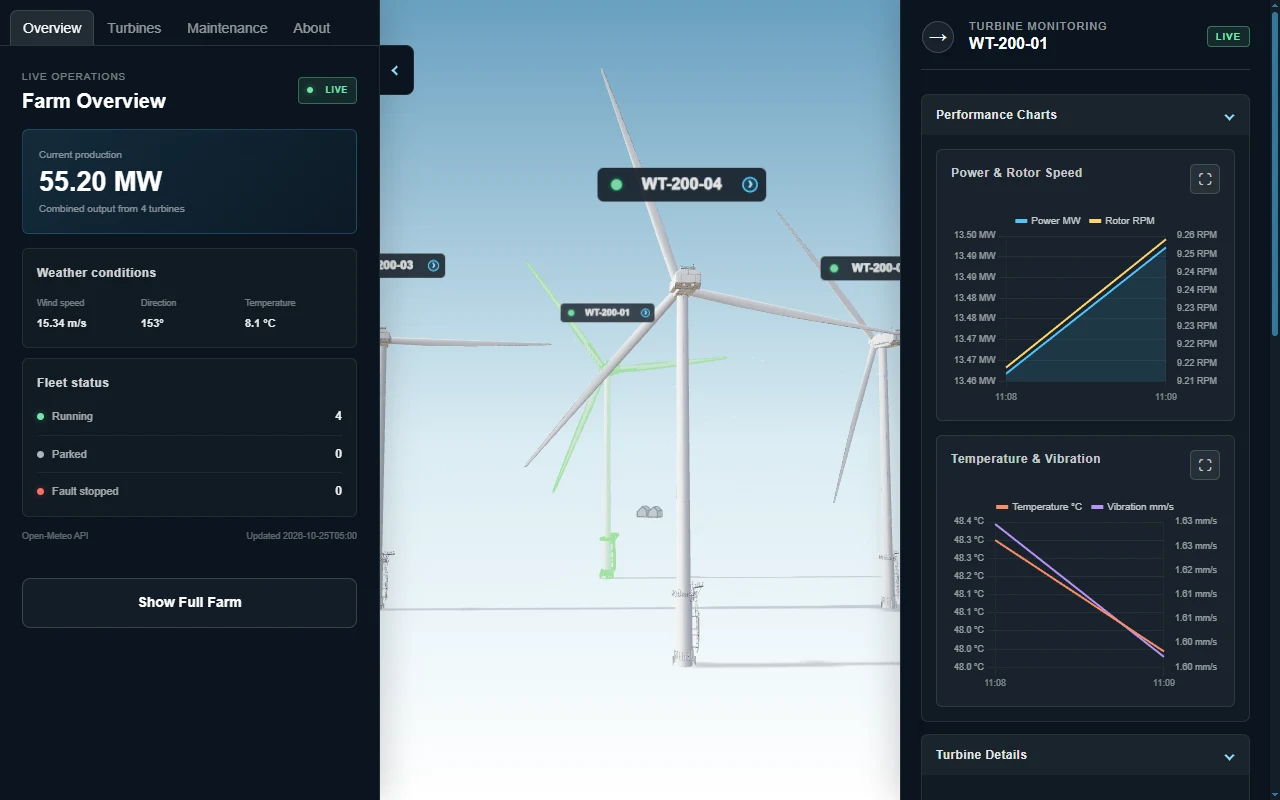
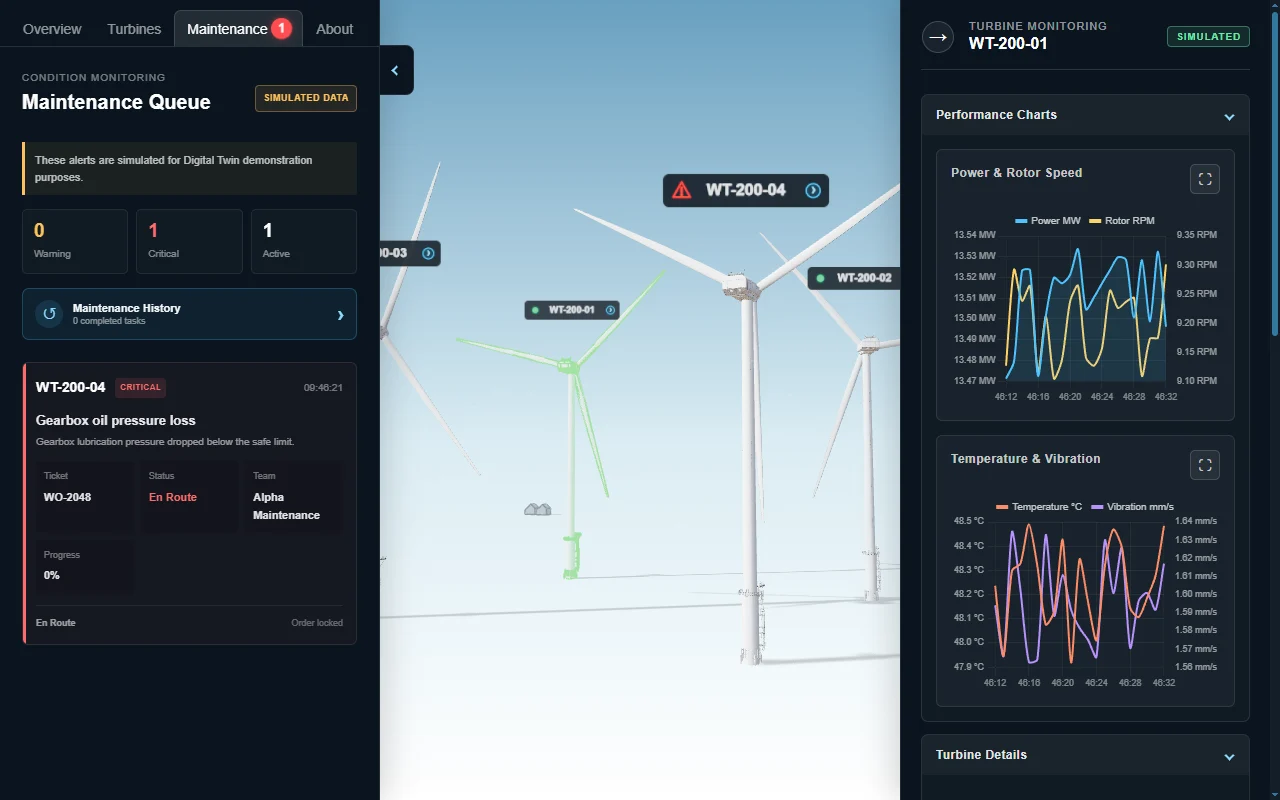
docs: present the published WindTwin release with fresh screenshots and qualified results

diff --git a/README.md b/README.md
@@ -42,7 +42,7 @@ Selecting a primary turbine connects its 3D identity to condition information, o
 
 ![Primary turbine selected with monitoring charts and condition panels](windtwin-monitoring-2026.webp)
 
-*Turbine values and chart samples are simulated. A monitoring-style LIVE label is not evidence of a connection to physical turbine sensors.*
+*Turbine values and chart samples are simulated and labelled accordingly; WindTwin is not connected to physical turbine sensors.*
 
 ## 3. Follow maintenance as a connected workflow
 
@@ -71,10 +71,10 @@ The responsive interface supports desktop and mobile layouts with touch navigati
 The latest viewer tools group branded image capture and supported fullscreen viewing in Overview. Export captures the 3D scene with Nourtin branding, rather than the HTML dashboard.
 
 <p align="center">
-  <img src="windtwin-mobile-overview-2026.png" width="300" alt="Current WindTwin Overview panel with camera and fullscreen icons in an emulated portrait mobile viewport">
+  <img src="windtwin-mobile-overview-2026.webp" width="300" alt="Current WindTwin Overview panel with camera and fullscreen icons in an emulated portrait mobile viewport">
 </p>
 
-*The mobile image shows the latest Overview tools in browser viewport emulation, not physical-phone performance validation. The other captures show the same-day library-update candidate before the final toolbar placement.*
+*These captures come from the published application on 25 October 2026. The portrait image uses browser viewport emulation; it is not physical-phone performance validation.*
 
 ## Performance and experience quality
 
@@ -86,7 +86,9 @@ One recorded local production-build comparison observed the useful-scene proxy a
 
 Test conditions: Windows, Intel Core i7-5930K, NVIDIA GTX 1060 3GB, headless Chrome 155, 1280 × 800 viewport at DPR 1, local production preview, browser cache disabled, imposed 40 ms latency and 10 Mbit/s download throughput. Driver/shader/OS caches were not reset. This is a single recorded comparison, not a statistically established speedup or a cross-device guarantee.
 
-Verification also covered startup, turbine selection, charts, full-farm show/hide, image export, fullscreen and loading-failure recovery on desktop and an emulated mobile viewport. Physical phones, exhaustive maintenance interactions and long-duration resource testing remain separate validation work.
+A separate reference-PC capacity trial completed a **15-minute fixed-view run with 300 turbines**, reporting **55.66 mean FPS, a 21 ms p95 frame interval and a 95.7 ms maximum interval**. Conditions: the same i7-5930K / GTX 1060 3GB desktop, Windows Chrome 155, HIGH quality, 1280 × 800 at DPR 1, local developer test environment, browser cache disabled, no artificial network throttling, and weather/analytics requests blocked. These are render-loop observations from one device and view; temperature, power, VRAM bytes and sustained manual interaction were not measured. The published experience retains its **100-turbine** default.
+
+Verification also covered startup, turbine selection, chart expansion, full-farm show/hide, image export, fullscreen and loading-failure recovery on desktop and an emulated mobile viewport. A graphics-unavailable browser now receives a clear explanation and retry action. Physical phones and exhaustive maintenance/touch interactions remain separate validation work.
 
 ## My contribution
 
@@ -111,7 +113,7 @@ The project demonstrates **real-time 3D presentation, frontend engineering and c
 
 ---
 
-**About this repository:** A public portfolio presentation containing descriptions and application screenshots. Application source, optimization algorithms, private operational documentation, database configuration and credentials are excluded. Screenshots were captured from the updated application on 25 October 2026 and resized/compressed for presentation. Latest-update capabilities describe the verified development candidate; availability in the live demo depends on deployment.
+**About this repository:** A public portfolio presentation containing descriptions and application screenshots. Application source, optimization algorithms, private operational documentation, database configuration and credentials are excluded. Screenshots were captured from the updated application on 25 October 2026 and resized/compressed for presentation. The update is published in the live demo; fullscreen remains dependent on browser support.
 
 Independent prototype by [Nour Altinawi — Nourtin](https://nourtin.com/). WindTwin is not connected to a physical wind farm and is not intended for operational decisions.
 
